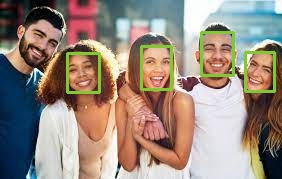
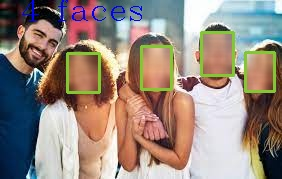
blur and face number

diff --git a/main.py b/main.py
@@ -2,31 +2,21 @@ from ultralytics import YOLO
 from PIL import Image
 import cv2 as cv
 
-# # Create a new YOLO model from scratch
-# model = YOLO('yolov8n.yaml')
-
-# # Load a pretrained YOLO model (recommended for training)
-# model = YOLO('yolov8n.pt')
-
-# # Train the model using the 'coco128.yaml' dataset for 3 epochs
-# results = model.train(data='coco128.yaml', epochs=3)
-
-# # Evaluate the model's performance on the validation set
-# results = model.val()
-
-# # Perform object detection on an image using the model
-# results = model('https://ultralytics.com/images/bus.jpg')
-
-# # Export the model to ONNX format
-# success = model.export(format='onnx')
-
 #load model
 model = YOLO("face-detection-yolov8/best.pt")
 # load video
 img_path = 'images.jpg'
+# img_path = 'dynamic_physis_wallpaper.jpg'
+
 results = model(img_path)
 boxes = results[0].boxes
 img = cv.imread(img_path)
+
+position = (20,20)
+font = cv.FONT_HERSHEY_COMPLEX
+scale = 1
+color = (255,0,0)
+exp = 1
 
 faces = 0
 
@@ -36,9 +26,16 @@ for box in boxes:
     bottom_right_x = int(box.xyxy.tolist()[0][2])
     bottom_right_y = int(box.xyxy.tolist()[0][3])
 
+    # aplicando o blur na região de interesse
+    region = img[top_left_y:bottom_right_y, top_left_x:bottom_right_x]
+    img_blur = cv.blur(region, (15,15))
+    img[top_left_y:bottom_right_y, top_left_x:bottom_right_x] = img_blur
+
+    #marcando os rostos
     cv.rectangle(img,(top_left_x,top_left_y),(bottom_right_x,bottom_right_y),(50,200,129),2)
 
     faces += 1
 
+cv.putText(img, f"{faces} faces", position, font, scale, color, exp)
 print(f'there are {faces} faces')
 cv.imwrite("test.jpg",img)
